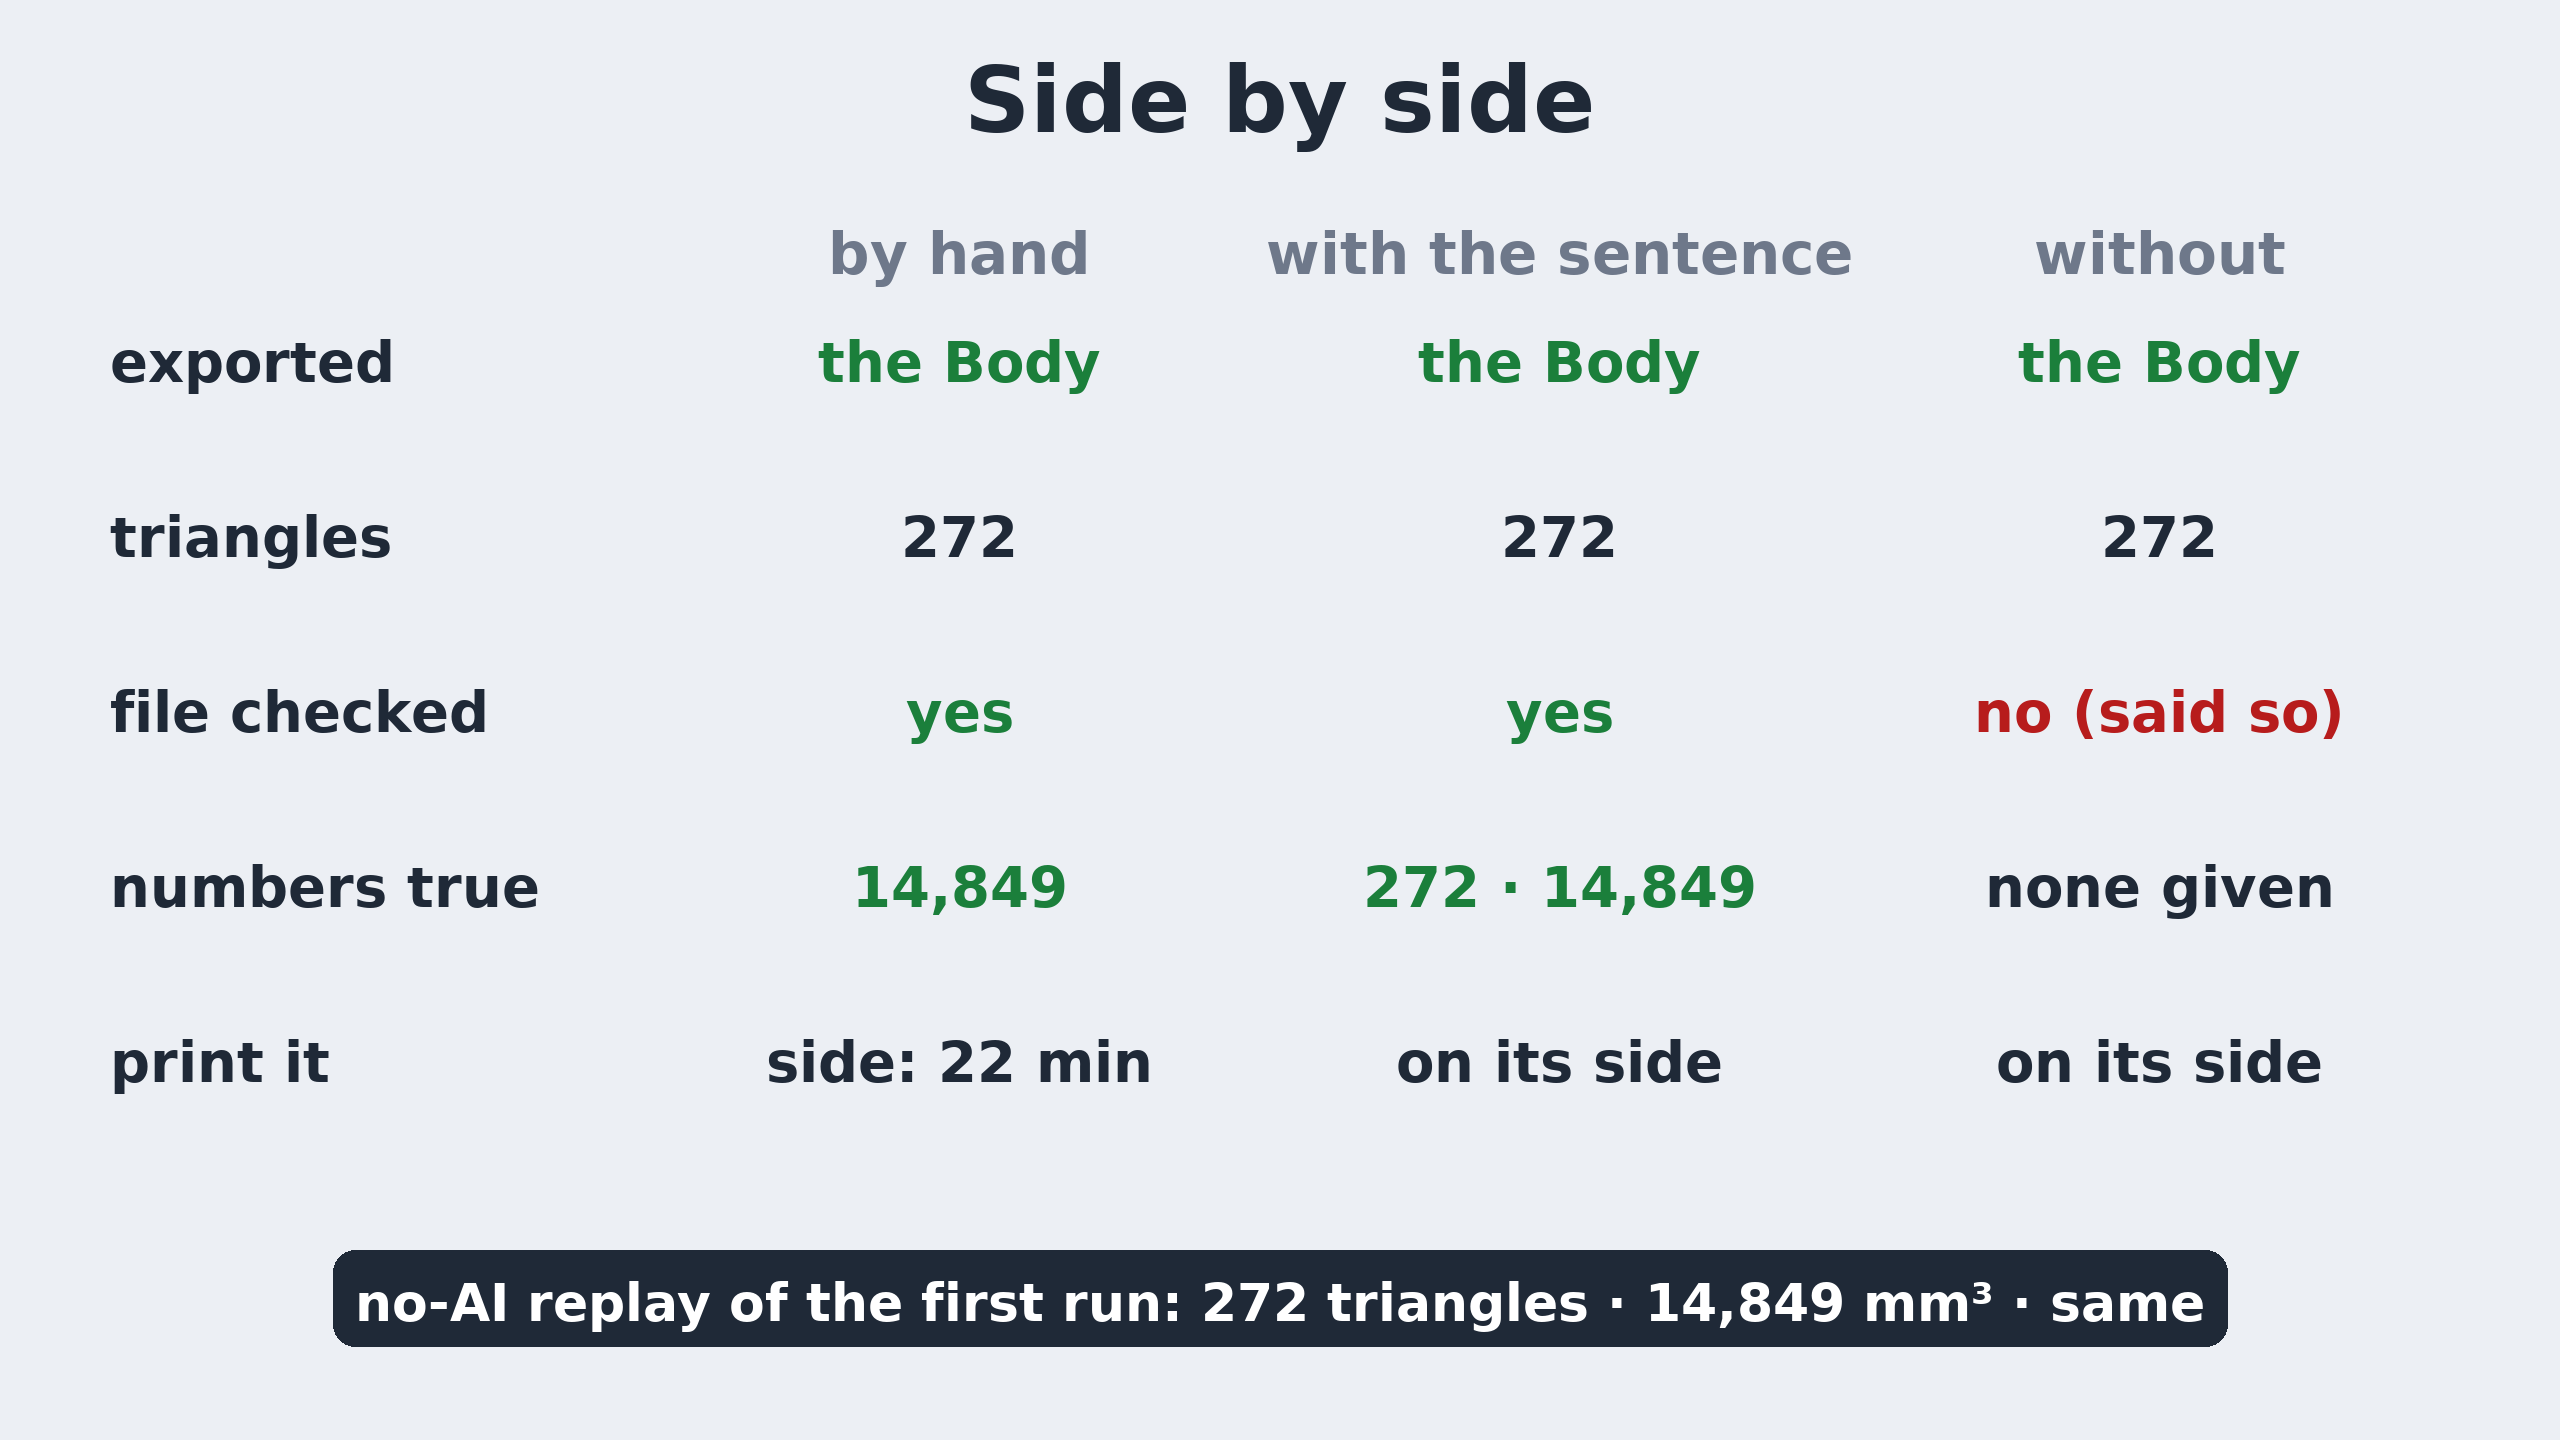
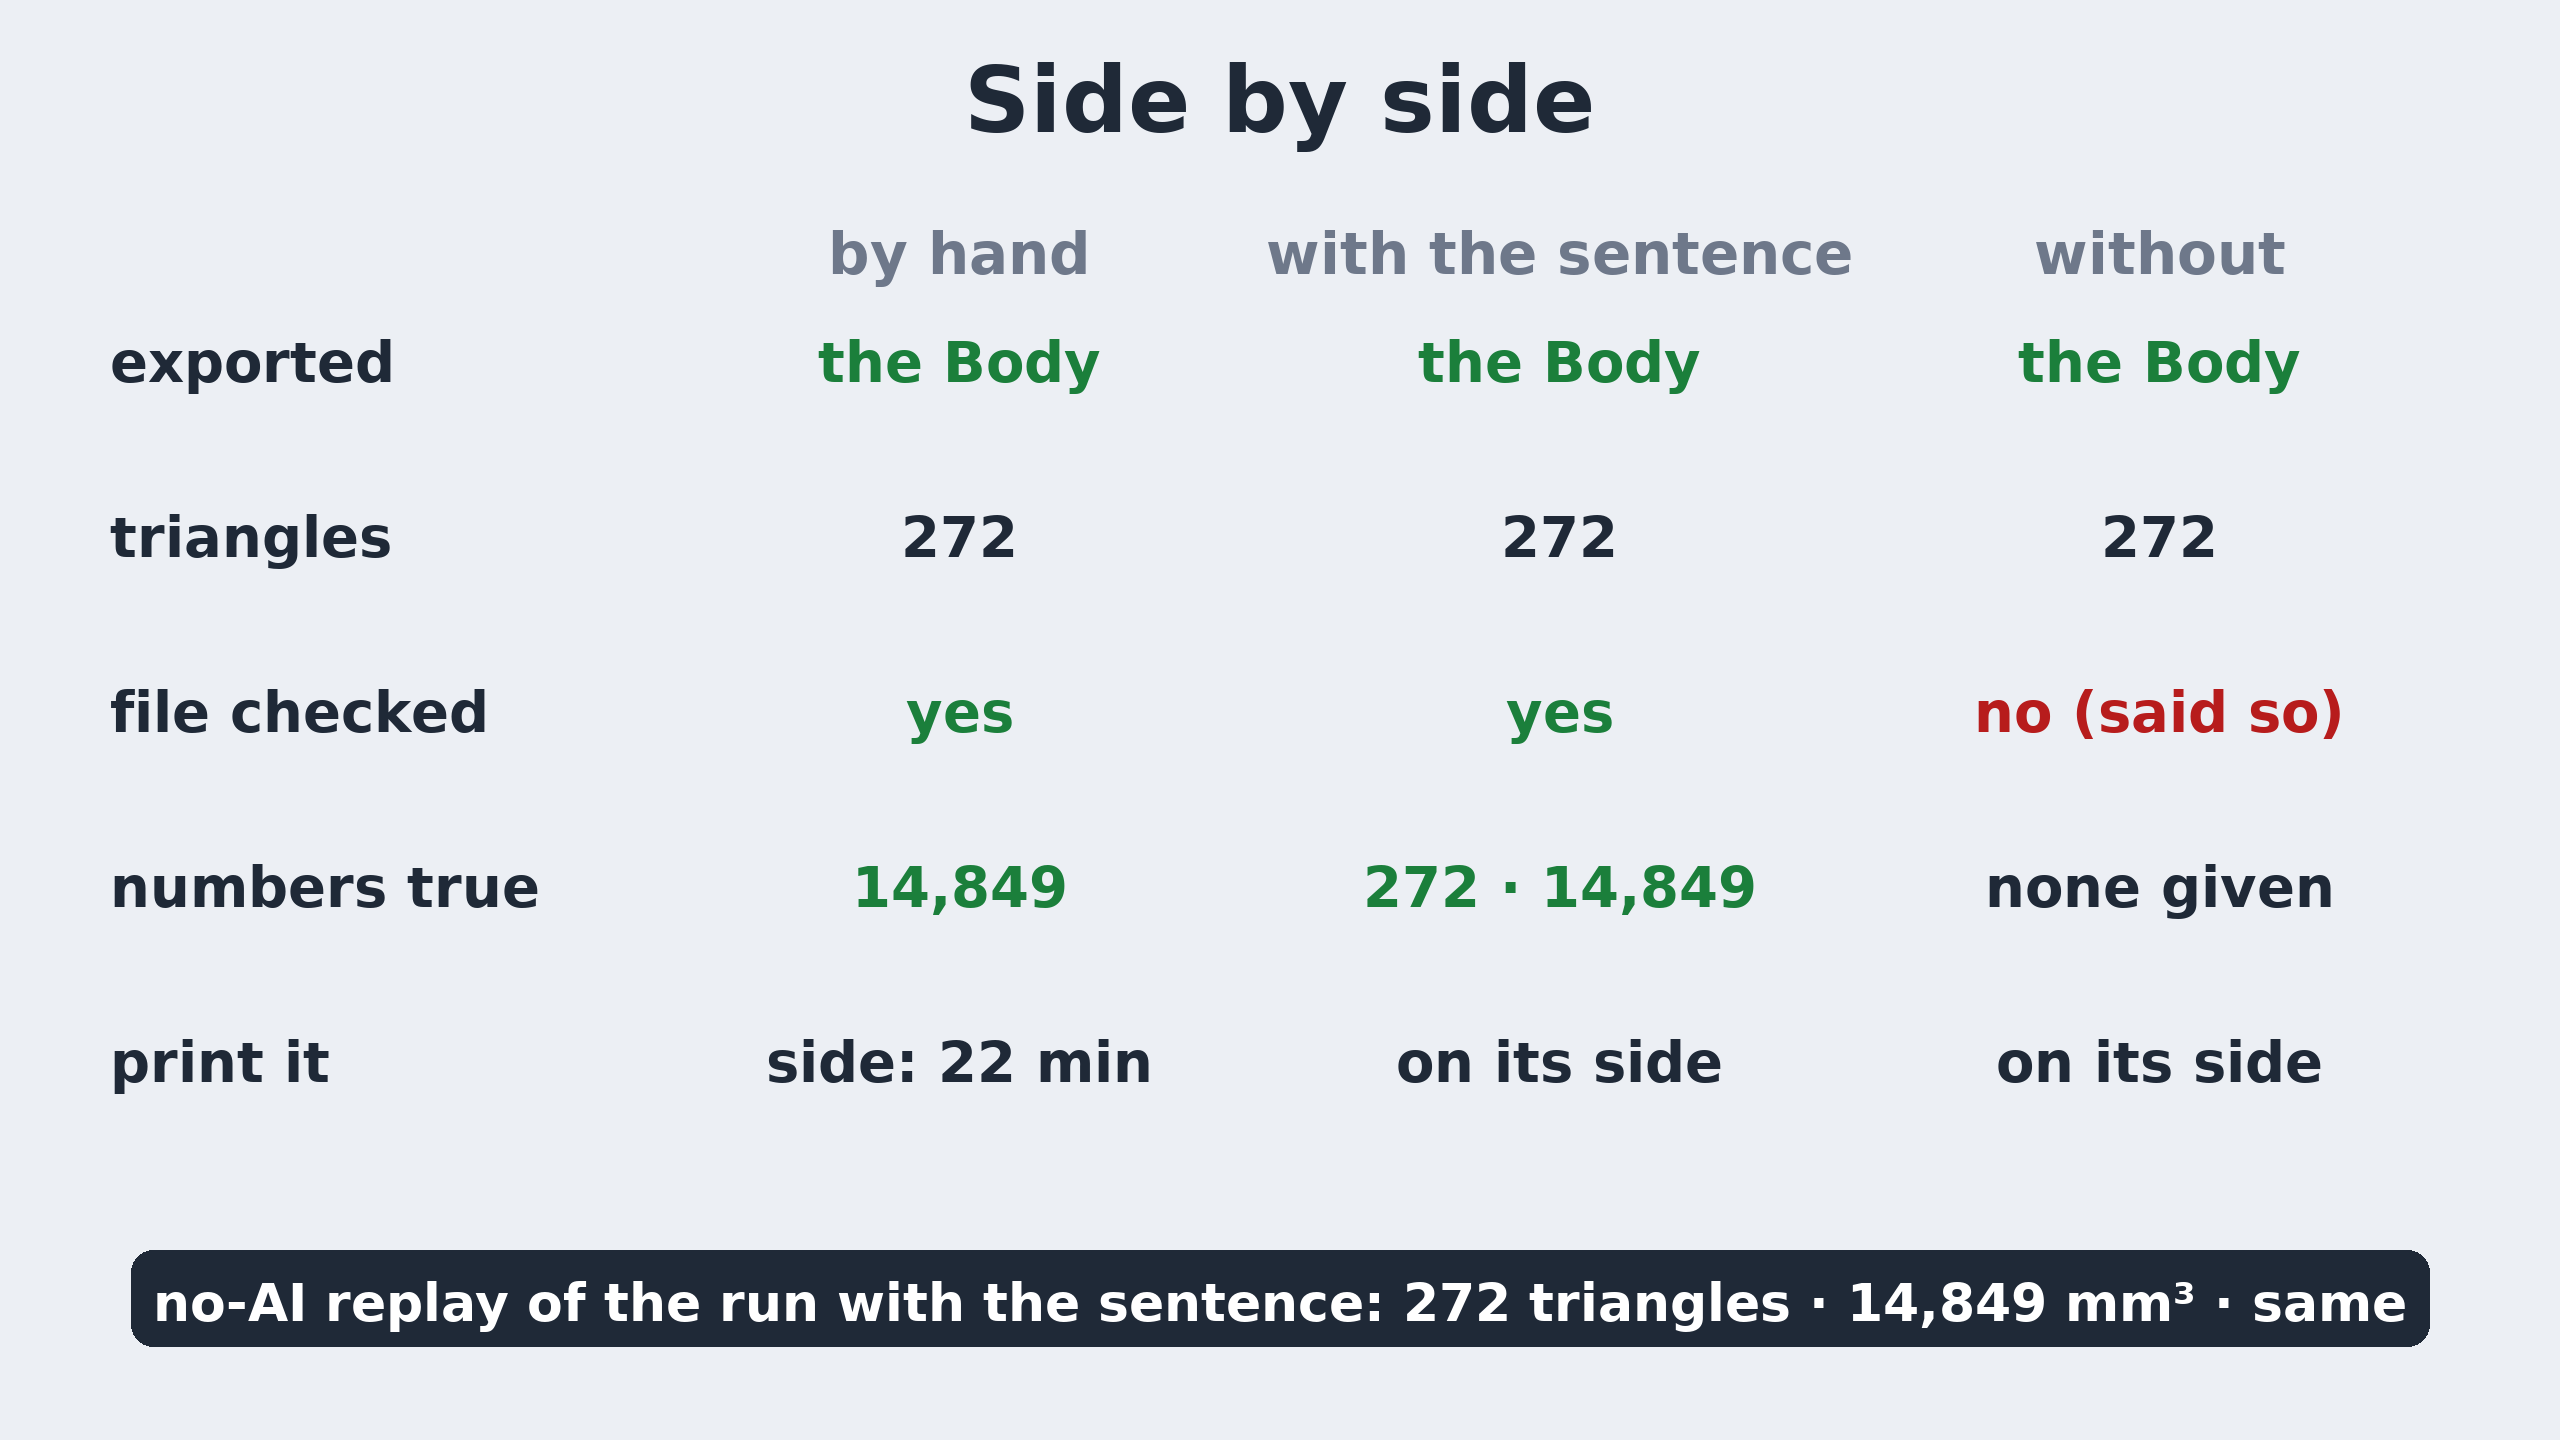
Lesson 5 comparison card: the replay row names the run with the sentence (script gate wording)

Changed region(s): [[0.0312, 0.8438, 0.9688, 0.9375]]

diff --git a/video/draw_l5.py b/video/draw_l5.py
@@ -128,7 +128,7 @@ def card_compare():
             ok = cl['ok']
             text(d, (x, y), cl['text'], 56, GREEN if ok else (RED if ok is False else INK), anchor='ma')
     rp = c['replay_B1']['replay']
-    chip(d, (W / 2, 1250), f"no-AI replay of the first run: {rp['triangles']} triangles · "
+    chip(d, (W / 2, 1250), f"no-AI replay of the run with the sentence: {rp['triangles']} triangles · "
                            f"{rp['volume_mm3']:,.0f} mm³ · {'same' if c['replay_B1']['pass'] else 'different'}",
          52, PAPER, INK, anchor='m')
     save(im, 'card-compare.png')
